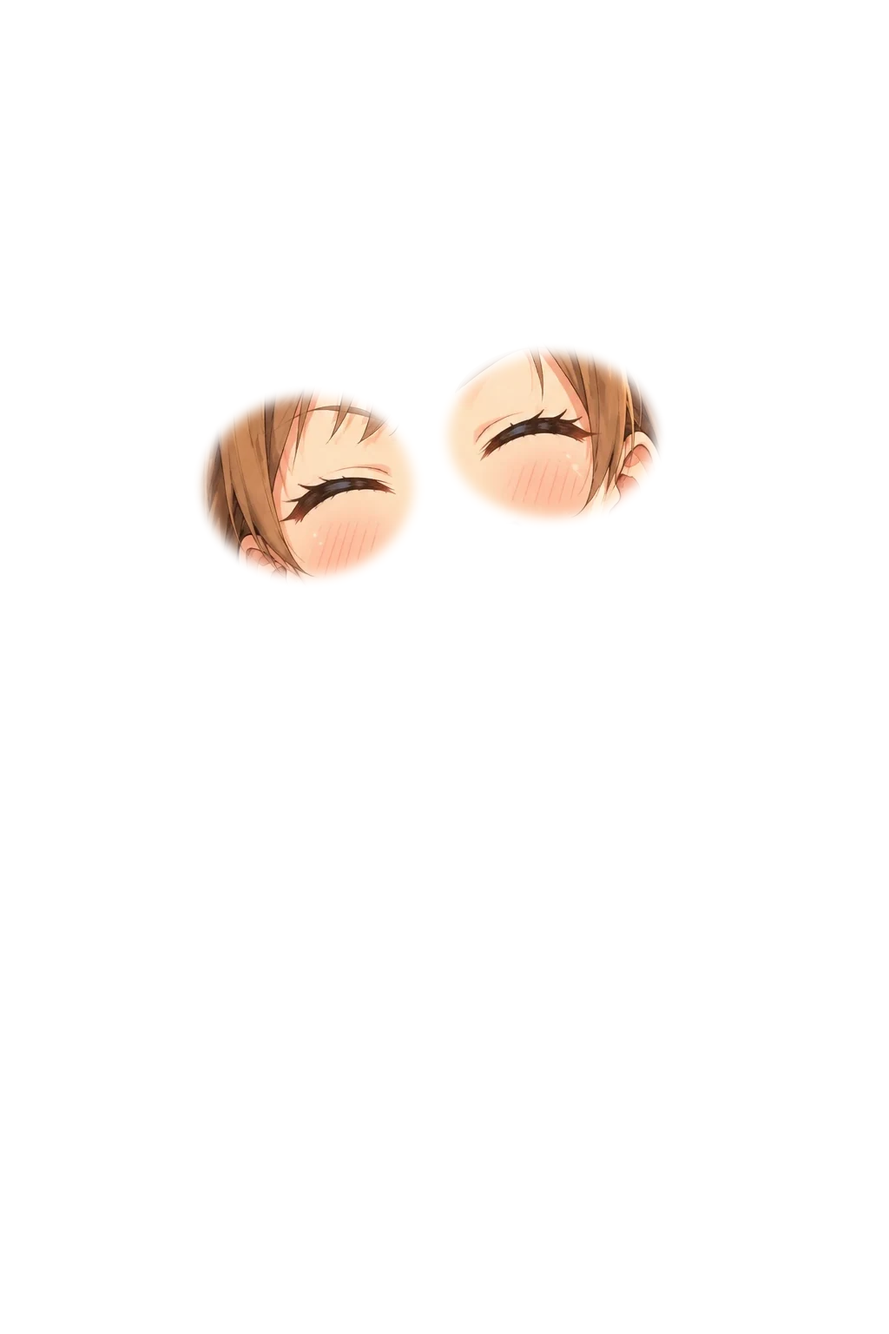
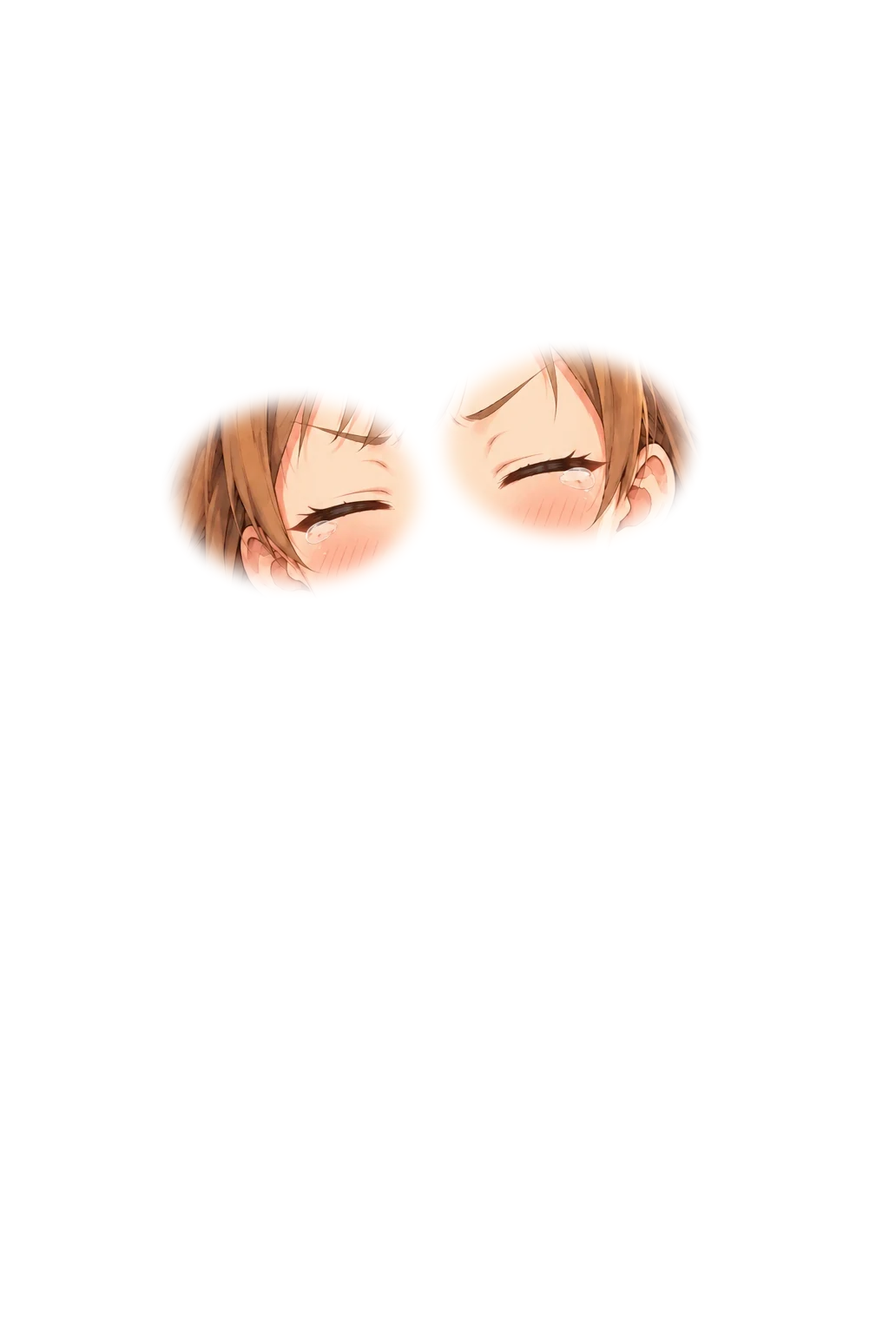
拠点のタイルの絵9枚と、みおの表情ごとの目を閉じた絵（まばたき）を入れる
- 開発者から届いたタイルの絵（docs/ART_QUEUE.md の L）。768×512 の WebP にし、台帳に tile.* で記入。拠点と休憩所のタイルが新しい絵になる
- 並びのタイルは、ネタバレを避けて人を描かない「重なった古い切符」（開発者が選んだ）。頼む文もそれに直した
- みおのまばたき：表情ごとの目を閉じた絵（M）から、その表情の目だけを切り抜いて重ねる。前の、別の表情の目をずらして重ねるやり方はやめた

Claude-Session: https://claude.ai/code/session_0138z9G7j5juWZyndYwWZQf5

Changed region(s): [[0.5, 0.25, 0.7812, 0.4062], [0.1875, 0.2812, 0.4375, 0.4688]]

diff --git a/src/data/assets.ts b/src/data/assets.ts
@@ -206,6 +206,26 @@ function rikuFace(face: string, title: string, expression: string): AssetEntry {
   };
 }
 
+/** 拠点・休憩所のタイルの絵（段階142。2026-10-31 に開発者が ChatGPT で作った） */
+function tileArt(id: string, title: string, prompt: string): AssetEntry {
+  return {
+    id: `tile.${id}`,
+    kind: 'image',
+    title: `拠点のタイル（${title}）`,
+    file: `assets/tiles/${id}.webp`,
+    status: 'placeholder',
+    source: { type: 'ai', service: 'ChatGPT', plan: 'Plus（有料）', prompt, settings: '見本の絵：public/assets/backgrounds/library.webp（蔵書の棚）。1536×1024 で出てきた。768×512 に縮めて WebP にした' },
+    author: 'RESTOPIA 開発（ChatGPT で作成）',
+    license: 'OpenAI 利用規約（出力の権利は利用者に渡す）',
+    commercialUse: true,
+    creditRequired: false,
+    modifyAllowed: true,
+    acquiredAt: '2026-10-31',
+    termsCopy: 'docs/licenses/ai-openai.md',
+    notes: 'docs/ART.md の 5-9（思い出のギャラリー）。src/data/hubTiles.ts',
+  };
+}
+
 /** 会話の背景（段階31a）。ChatGPT か Gemini で作った1枚絵 */
 function backdrop(id: string, title: string, file: string, prompt: string, settings: string, acquiredAt = '2026-10-08', service: 'chatgpt' | 'gemini' = 'chatgpt'): AssetEntry {
   const gemini = service === 'gemini';
@@ -1438,6 +1458,27 @@ export const ASSETS: AssetEntry[] = [
   ),
   // 2026-10-25〜26：ChatGPT Plus で作った、3章と2章の残りの人（docs/ART_QUEUE.md の A〜C。白い背景は scripts/cutout.py で抜いた）
   chatgptPortrait("sayoko", "小夜子", "smile", "微笑み", "Anime-style illustration for a Japanese story-driven RPG. Clean line art, soft cel shading with gentle watercolor-like lighting, warm dusk-toned palette (amber orange and indigo), nostalgic and emotional mood. No text, no watermark, no signature. Chest-up character portrait for visual-novel style dialogue scenes. Vertical 2:3 image. Front view, facing the viewer, a gentle, graceful smile. Framing: from just above the top of the head down to mid-chest. The head sits in the upper third of the image. Use exactly the same framing, size and camera distance as the attached reference portrait of the girl in the cardigan. Pose: both arms relaxed down at the sides, hands outside the frame. No props. Background: plain pure white, no shadow, no gradient. Character: Sayoko. Keep her design exactly as in the attached character sheet: long straight black hair half-up with a small silver crescent moon hairpin, blunt bangs, large dark eyes with a soft reddish-brown tint, a deep indigo yukata with white bellflowers and a crimson obi.", "sayoko_sheet.png（上で決めた設定画）、akari_smile.webp", "3章の大正の祭りの夜のヒロイン（docs/script/3-matsuri.md）。見た目は設定画（sayoko_sheet。開発者が持っている）で決めた。ほかの表情は、Gemini で作るまでこの絵で代わりに出す", '2026-10-26', 'Plus（有料）'),
+  // みおの表情ごとの目を閉じた絵（2026-10-31。docs/ART_QUEUE.md の M）。会話には出さず、目だけ切り抜いてまばたきの差分にする
+  { ...chatgptPortrait('mio', 'みお', 'smile_blink_src', '笑顔・目を閉じた絵。まばたきの元', "Edit the attached image. Keep everything exactly the same: the same character, the same wide confident grin expression, the same pose, framing, size, camera distance, hair, clothes, colors, line art and plain white background. Change only her eyes: gently close both eyes, as in the middle of a natural blink (soft curved eyelid lines with eyelashes, the same eyebrows as now). Do not move or resize the face, do not change the mouth.", 'mio_smile.webp', '会話には出さない（起動の時も読み込まない）。目のまわりだけを切り抜いて、まばたきの差分にする（scripts/portrait_parts.py）', '2026-10-31', 'Plus（有料）') },
+  { ...chatgptPortrait('mio', 'みお', 'serious_blink_src', '真剣・目を閉じた絵。まばたきの元', "Edit the attached image. Keep everything exactly the same: the same character, the same serious, determined expression, the same pose, framing, size, camera distance, hair, clothes, colors, line art and plain white background. Change only her eyes: gently close both eyes, as in the middle of a natural blink (soft curved eyelid lines with eyelashes, the same eyebrows as now). Do not move or resize the face, do not change the mouth.", 'mio_serious.webp', '会話には出さない（起動の時も読み込まない）。目のまわりだけを切り抜いて、まばたきの差分にする（scripts/portrait_parts.py）', '2026-10-31', 'Plus（有料）') },
+  { ...chatgptPortrait('mio', 'みお', 'surprised_blink_src', '驚き・目を閉じた絵。まばたきの元', "Edit the attached image. Keep everything exactly the same: the same character, the same surprised, mouth open expression, the same pose, framing, size, camera distance, hair, clothes, colors, line art and plain white background. Change only her eyes: gently close both eyes, as in the middle of a natural blink (soft curved eyelid lines with eyelashes, the same eyebrows as now). Do not move or resize the face, do not change the mouth.", 'mio_surprised.webp', '会話には出さない（起動の時も読み込まない）。目のまわりだけを切り抜いて、まばたきの差分にする（scripts/portrait_parts.py）', '2026-10-31', 'Plus（有料）') },
+  { ...chatgptPortrait('mio', 'みお', 'thinking_blink_src', '考える・目を閉じた絵。まばたきの元', "Edit the attached image. Keep everything exactly the same: the same character, the same thinking expression, the same pose, framing, size, camera distance, hair, clothes, colors, line art and plain white background. Change only her eyes: gently close both eyes, as in the middle of a natural blink (soft curved eyelid lines with eyelashes, the same eyebrows as now). Do not move or resize the face, do not change the mouth.", 'mio_thinking.webp', '会話には出さない（起動の時も読み込まない）。目のまわりだけを切り抜いて、まばたきの差分にする（scripts/portrait_parts.py）', '2026-10-31', 'Plus（有料）') },
+  { ...chatgptPortrait('mio', 'みお', 'worried_blink_src', '心配・目を閉じた絵。まばたきの元', "Edit the attached image. Keep everything exactly the same: the same character, the same worried expression, the same pose, framing, size, camera distance, hair, clothes, colors, line art and plain white background. Change only her eyes: gently close both eyes, as in the middle of a natural blink (soft curved eyelid lines with eyelashes, the same eyebrows as now). Do not move or resize the face, do not change the mouth.", 'mio_worried.webp', '会話には出さない（起動の時も読み込まない）。目のまわりだけを切り抜いて、まばたきの差分にする（scripts/portrait_parts.py）', '2026-10-31', 'Plus（有料）') },
+  { ...chatgptPortrait('mio', 'みお', 'pout_blink_src', 'むっ・目を閉じた絵。まばたきの元', "Edit the attached image. Keep everything exactly the same: the same character, the same pouting, cheeks puffed expression, the same pose, framing, size, camera distance, hair, clothes, colors, line art and plain white background. Change only her eyes: gently close both eyes, as in the middle of a natural blink (soft curved eyelid lines with eyelashes, the same eyebrows as now). Do not move or resize the face, do not change the mouth.", 'mio_pout.webp', '会話には出さない（起動の時も読み込まない）。目のまわりだけを切り抜いて、まばたきの差分にする（scripts/portrait_parts.py）', '2026-10-31', 'Plus（有料）') },
+  { ...chatgptPortrait('mio', 'みお', 'frustrated_blink_src', '悔しい・目を閉じた絵。まばたきの元', "Edit the attached image. Keep everything exactly the same: the same character, the same frustrated, biting her lip expression, the same pose, framing, size, camera distance, hair, clothes, colors, line art and plain white background. Change only her eyes: gently close both eyes, as in the middle of a natural blink (soft curved eyelid lines with eyelashes, the same eyebrows as now). Do not move or resize the face, do not change the mouth.", 'mio_frustrated.webp', '会話には出さない（起動の時も読み込まない）。目のまわりだけを切り抜いて、まばたきの差分にする（scripts/portrait_parts.py）', '2026-10-31', 'Plus（有料）') },
+  { ...chatgptPortrait('mio', 'みお', 'wry_blink_src', '困り笑い・目を閉じた絵。まばたきの元', "Edit the attached image. Keep everything exactly the same: the same character, the same awkward smile expression, the same pose, framing, size, camera distance, hair, clothes, colors, line art and plain white background. Change only her eyes: gently close both eyes, as in the middle of a natural blink (soft curved eyelid lines with eyelashes, the same eyebrows as now). Do not move or resize the face, do not change the mouth.", 'mio_wry.webp', '会話には出さない（起動の時も読み込まない）。目のまわりだけを切り抜いて、まばたきの差分にする（scripts/portrait_parts.py）', '2026-10-31', 'Plus（有料）') },
+  { ...chatgptPortrait('mio', 'みお', 'shy_blink_src', '照れ・目を閉じた絵。まばたきの元', "Edit the attached image. Keep everything exactly the same: the same character, the same shy, blushing expression, the same pose, framing, size, camera distance, hair, clothes, colors, line art and plain white background. Change only her eyes: gently close both eyes, as in the middle of a natural blink (soft curved eyelid lines with eyelashes, the same eyebrows as now). Do not move or resize the face, do not change the mouth.", 'mio_shy.webp', '会話には出さない（起動の時も読み込まない）。目のまわりだけを切り抜いて、まばたきの差分にする（scripts/portrait_parts.py）', '2026-10-31', 'Plus（有料）') },
+  { ...chatgptPortrait('mio', 'みお', 'teary_blink_src', '泣き笑い・目を閉じた絵。まばたきの元', "Edit the attached image. Keep everything exactly the same: the same character, the same smiling through tears expression, the same pose, framing, size, camera distance, hair, clothes, colors, line art and plain white background. Change only her eyes: gently close both eyes, as in the middle of a natural blink (soft curved eyelid lines with eyelashes, the same eyebrows as now). Do not move or resize the face, do not change the mouth.", 'mio_teary.webp', '会話には出さない（起動の時も読み込まない）。目のまわりだけを切り抜いて、まばたきの差分にする（scripts/portrait_parts.py）', '2026-10-31', 'Plus（有料）') },
+  // 拠点・休憩所のタイルの絵（2026-10-31。docs/ART_QUEUE.md の L。段階142）。1536×1024 を 768×512 に縮めた
+  tileArt("hunt", "記憶をたどる", "Anime-style illustration for a Japanese story-driven RPG. Clean line art, soft cel shading with gentle watercolor-like lighting, warm dusk-toned palette (amber orange and indigo), nostalgic and emotional mood. No text, no watermark, no signature.  A menu tile illustration for the hub screen of a mobile RPG, shown like a framed painting in a dark memory gallery. Horizontal 3:2 image (1536×1024). The main subject sits in the center of the image; the edges are simple, because the image will be cropped to a wide strip or to a square. Keep the bottom quarter darker and simple, because a white label will be placed over it. Rich, glowing light against deep shadows, so the tile stands out on a near-black screen. Restopia, a vast library of memories where stolen happy hours are kept as glowing hourglasses on endless shelves. Seen from behind, a high school boy and a girl in a cardigan (keep their designs as in the attached portraits) walk toward a tall archway of swirling golden sand; through the archway, a faint, dreamlike summer festival night with lanterns and fireworks is visible, as if they are stepping back into a memory. Absolutely no letters, numbers or text anywhere."),
+  tileArt("growth", "星図", "Anime-style illustration for a Japanese story-driven RPG. Clean line art, soft cel shading with gentle watercolor-like lighting, warm dusk-toned palette (amber orange and indigo), nostalgic and emotional mood. No text, no watermark, no signature.  A menu tile illustration for the hub screen of a mobile RPG, shown like a framed painting in a dark memory gallery. Horizontal 3:2 image (1536×1024). The main subject sits in the center of the image; the edges are simple, because the image will be cropped to a wide strip or to a square. Keep the bottom quarter darker and simple, because a white label will be placed over it. Rich, glowing light against deep shadows, so the tile stands out on a near-black screen. A deep indigo night sky full of stars above the library of memories. Several stars are linked by thin glowing golden lines into a constellation, and in the center stands a large antique hourglass whose falling sand glitters like stardust, slowly spilling up into the sky to become new stars. Absolutely no letters, numbers or text anywhere."),
+  tileArt("weapon", "武器", "Anime-style illustration for a Japanese story-driven RPG. Clean line art, soft cel shading with gentle watercolor-like lighting, warm dusk-toned palette (amber orange and indigo), nostalgic and emotional mood. No text, no watermark, no signature.  A menu tile illustration for the hub screen of a mobile RPG, shown like a framed painting in a dark memory gallery. Horizontal 3:2 image (1536×1024). The main subject sits in the center of the image; the edges are simple, because the image will be cropped to a wide strip or to a square. Keep the bottom quarter darker and simple, because a white label will be placed over it. Rich, glowing light against deep shadows, so the tile stands out on a near-black screen. A single slender sword rests on dark crimson velvet in the library of memories, its blade faintly glowing with a crimson light, as if remembering the boy who wields it. Behind it, faint silver octagonal emblems linked by thin crimson lines float in the dark like a family tree. Floating grains of golden sand. Absolutely no letters, numbers or text anywhere."),
+  tileArt("navi", "ムーブメント", "Anime-style illustration for a Japanese story-driven RPG. Clean line art, soft cel shading with gentle watercolor-like lighting, warm dusk-toned palette (amber orange and indigo), nostalgic and emotional mood. No text, no watermark, no signature.  A menu tile illustration for the hub screen of a mobile RPG, shown like a framed painting in a dark memory gallery. Horizontal 3:2 image (1536×1024). The main subject sits in the center of the image; the edges are simple, because the image will be cropped to a wide strip or to a square. Keep the bottom quarter darker and simple, because a white label will be placed over it. Rich, glowing light against deep shadows, so the tile stands out on a near-black screen. A close-up of the open back of an antique pocket watch: the beautiful clockwork movement with interlocking gears made of four metals (copper, blued steel, green bronze and yellow brass), tiny red ruby jewels, blued screws, and a golden balance wheel in motion. Warm light catching the metal edges, dark velvet around the watch. Absolutely no letters, numbers or text anywhere."),
+  tileArt("album", "アルバム", "Anime-style illustration for a Japanese story-driven RPG. Clean line art, soft cel shading with gentle watercolor-like lighting, warm dusk-toned palette (amber orange and indigo), nostalgic and emotional mood. No text, no watermark, no signature.  A menu tile illustration for the hub screen of a mobile RPG, shown like a framed painting in a dark memory gallery. Horizontal 3:2 image (1536×1024). The main subject sits in the center of the image; the edges are simple, because the image will be cropped to a wide strip or to a square. Keep the bottom quarter darker and simple, because a white label will be placed over it. Rich, glowing light against deep shadows, so the tile stands out on a near-black screen. An open old photo album on a dark wooden desk, lit by a warm desk lamp. Several slightly faded instant photos are taped onto cream-colored pages; the photos show only soft blurry colors of everyday moments (a festival night, a riverside sunset, a classroom), with no clear faces. A few loose photos and a roll of masking tape beside the album. Absolutely no letters, numbers or text anywhere."),
+  tileArt("party", "並び", "Anime-style illustration for a Japanese story-driven RPG. Clean line art, soft cel shading with gentle watercolor-like lighting, warm dusk-toned palette (amber orange and indigo), nostalgic and emotional mood. No text, no watermark, no signature.  A menu tile illustration for the hub screen of a mobile RPG, shown like a framed painting in a dark memory gallery. Horizontal 3:2 image (1536×1024). The main subject sits in the center of the image; the edges are simple, because the image will be cropped to a wide strip or to a square. Keep the bottom quarter darker and simple, because a white label will be placed over it. Rich, glowing light against deep shadows, so the tile stands out on a near-black screen. A narrow country path at night, wrapped in soft mist. Small old-fashioned oil lanterns are placed here and there along the path. Only a few lanterns in the foreground are lit with a warm golden glow; the rest stand unlit and fade away into the deep mist, so it is impossible to tell how many there are. A quiet feeling of choosing who will walk the road together tonight. No people, no hands, no silhouettes, no footprints. Absolutely no letters, numbers or text anywhere."),
+  tileArt("exchange", "交換所", "Anime-style illustration for a Japanese story-driven RPG. Clean line art, soft cel shading with gentle watercolor-like lighting, warm dusk-toned palette (amber orange and indigo), nostalgic and emotional mood. No text, no watermark, no signature.  A menu tile illustration for the hub screen of a mobile RPG, shown like a framed painting in a dark memory gallery. Horizontal 3:2 image (1536×1024). The main subject sits in the center of the image; the edges are simple, because the image will be cropped to a wide strip or to a square. Keep the bottom quarter darker and simple, because a white label will be placed over it. Rich, glowing light against deep shadows, so the tile stands out on a near-black screen. A neat exchange counter tucked between the bookshelves of the library of memories: a brass balance scale, glass jars of glowing sand and small crystal memory fragments, a thick ledger and a rubber stamp, arranged in perfect order. Behind the counter, the clerk in the attached portrait is seen small and from the side, adjusting her glasses while checking the ledger. Absolutely no letters, numbers or text anywhere."),
+  tileArt("lost", "落とし物の棚", "Anime-style illustration for a Japanese story-driven RPG. Clean line art, soft cel shading with gentle watercolor-like lighting, warm dusk-toned palette (amber orange and indigo), nostalgic and emotional mood. No text, no watermark, no signature.  A menu tile illustration for the hub screen of a mobile RPG, shown like a framed painting in a dark memory gallery. Horizontal 3:2 image (1536×1024). The main subject sits in the center of the image; the edges are simple, because the image will be cropped to a wide strip or to a square. Keep the bottom quarter darker and simple, because a white label will be placed over it. Rich, glowing light against deep shadows, so the tile stands out on a near-black screen. A small wooden shelf of lost things in a quiet corner of the library of memories, each item with a little paper tag tied by string (the tags are blank): a child's straw hat, a red umbrella, a wind-up tin toy, a music box, a single glove, an old cassette tape. A soft golden glow on each item, as if waiting for its owner. Absolutely no letters, numbers or text anywhere."),
+  tileArt("talks", "町の小話", "Anime-style illustration for a Japanese story-driven RPG. Clean line art, soft cel shading with gentle watercolor-like lighting, warm dusk-toned palette (amber orange and indigo), nostalgic and emotional mood. No text, no watermark, no signature.  A menu tile illustration for the hub screen of a mobile RPG, shown like a framed painting in a dark memory gallery. Horizontal 3:2 image (1536×1024). The main subject sits in the center of the image; the edges are simple, because the image will be cropped to a wide strip or to a square. Keep the bottom quarter darker and simple, because a white label will be placed over it. Rich, glowing light against deep shadows, so the tile stands out on a near-black screen. A small Japanese shopping street at dusk seen from a little distance: paper lanterns and shop lights coming on, a few townspeople chatting in front of a bakery and a candy shop, a cat on a bench, warm windows. A peaceful, everyday evening; people are small and seen from the side or behind. Absolutely no letters, numbers or text anywhere."),
   // 表情違い（2026-10-31。docs/ART_QUEUE.md の I・K。開発者が ChatGPT で作って送ってくれた。感情移入を優先して、台本で多く使う表情から）
   chatgptPortrait("mio", "\u307f\u304a", "serious", "\u771f\u5263", "Anime-style illustration for a Japanese story-driven RPG. Clean line art, soft cel shading with gentle watercolor-like lighting, warm dusk-toned palette (amber orange and indigo), nostalgic and emotional mood. No text, no watermark, no signature.  Chest-up character portrait for visual-novel style dialogue scenes. Vertical 2:3 image. Front view, facing the viewer, a serious, determined look, eyebrows drawn together, mouth set firmly. This is exactly the same character as the attached portrait, with the same childlike proportions: Mio, a petite, energetic 10-year-old girl with bright light-brown messy short hair, one tiny side tuft tied with a small orange hair tie, big warm brown eyes, a plain yellow T-shirt. Change only the facial expression (a small natural tilt of the head or shoulders is fine). Keep exactly the same character design, hairstyle, outfit, colors, art style, framing, size and camera distance as the attached portrait. Pose: both arms relaxed down at the sides, hands outside the frame. No props. Background: plain pure white, no shadow, no gradient.", "mio_smile.webp", "表情違い（docs/ART_QUEUE.md の I）", '2026-10-31', 'Plus（有料）'),
   chatgptPortrait("mio", "\u307f\u304a", "surprised", "\u9a5a\u304d", "Anime-style illustration for a Japanese story-driven RPG. Clean line art, soft cel shading with gentle watercolor-like lighting, warm dusk-toned palette (amber orange and indigo), nostalgic and emotional mood. No text, no watermark, no signature.  Chest-up character portrait for visual-novel style dialogue scenes. Vertical 2:3 image. Front view, facing the viewer, a surprised look, eyes wide open, mouth open in a small \"oh\". This is exactly the same character as the attached portrait, with the same childlike proportions: Mio, a petite, energetic 10-year-old girl with bright light-brown messy short hair, one tiny side tuft tied with a small orange hair tie, big warm brown eyes, a plain yellow T-shirt. Change only the facial expression (a small natural tilt of the head or shoulders is fine). Keep exactly the same character design, hairstyle, outfit, colors, art style, framing, size and camera distance as the attached portrait. Pose: both arms relaxed down at the sides, hands outside the frame. No props. Background: plain pure white, no shadow, no gradient.", "mio_smile.webp", "表情違い（docs/ART_QUEUE.md の I）", '2026-10-31', 'Plus（有料）'),
@@ -2378,7 +2419,6 @@ const PORTRAIT_PART_FILES: [file: string, from: string, title: string][] = [
   // みお・小夜子（2026-10-31）：表情ごとに顔が少しずれているので、重ねる表情ごとに位置を合わせた差分（scripts/portrait_parts.py の SHIFTED）
   ...(
     [
-      ['mio', 'みお', 'blink', 'laugh', ['smile', 'serious', 'surprised', 'thinking', 'worried', 'pout', 'frustrated', 'wry', 'shy', 'teary']],
       ['mio', 'みお', 'talk', 'surprised', ['serious', 'thinking', 'shy']],
       ['sayoko', '小夜子', 'blink', 'laugh', ['smile', 'thinking', 'surprised', 'serious', 'normal', 'shy', 'lonely', 'teary']],
       ['sayoko', '小夜子', 'talk', 'surprised', ['smile', 'thinking', 'serious', 'normal', 'shy', 'lonely', 'teary']],
@@ -2389,6 +2429,10 @@ const PORTRAIT_PART_FILES: [file: string, from: string, title: string][] = [
       `portrait.${who}.${from}`,
       `${name}の${kind === 'blink' ? '閉じた目（まばたき）' : '開いた口（口パク）'}（${f} に重ねる）`,
     ]),
+  ),
+  // みおの閉じた目（2026-10-31）：表情ごとの目を閉じた絵から切り抜いた
+  ...(['smile', 'serious', 'surprised', 'thinking', 'worried', 'pout', 'frustrated', 'wry', 'shy', 'teary'] as const).map(
+    (f): [string, string, string] => [`mio_blink_${f}`, `portrait.mio.${f}_blink_src`, `みおの閉じた目（まばたき。${f} に重ねる）`],
   ),
 ];
 for (const [file, from, title] of PORTRAIT_PART_FILES) {

diff --git a/src/data/dialogue.ts b/src/data/dialogue.ts
@@ -93,6 +93,7 @@ export interface PortraitPart {
   byFace?: Record<string, string>;
 }
 const RIKU_TALK_FACES = ['normal', 'proud', 'serious', 'sad', 'smirk', 'flustered'];
+const MIO_BLINK_FACES = ['smile', 'serious', 'surprised', 'thinking', 'worried', 'pout', 'frustrated', 'wry', 'shy', 'teary'];
 /** 表情ごとに位置を合わせた差分（<人>_blink_<表情>・<人>_talk_<表情>）を使う人のまばたき・口パク */
 function shiftedParts(who: string, blink: string[], talk: string[]): { blink: PortraitPart; talk: PortraitPart } {
   const part = (kind: string, faces: string[]): PortraitPart => ({
@@ -104,9 +105,11 @@ function shiftedParts(who: string, blink: string[], talk: string[]): { blink: Po
 }
 export const PORTRAIT_PARTS: Record<string, { blink?: PortraitPart; talk?: PortraitPart }> = {
   // みお・小夜子（2026-10-31）：「大笑い」「笑顔」の閉じた目と「驚き」の開いた口を、表情ごとに位置を合わせて重ねる
-  // みおのまばたきは止めた（2026-10-31 開発者の指摘：表情ごとに顔の傾きと大きさが違い、別の表情の閉じた目を重ねると顔がゆがんで見えた）。
-  // 表情ごとに「目だけ閉じた絵」を頼んだ（docs/ART_QUEUE.md の M）。届くまで口パクだけ
-  みお: { talk: shiftedParts('mio', ['smile'], ['serious', 'thinking', 'shy']).talk },
+  // みお：表情ごとに「目だけ閉じた絵」から作ったまばたき（2026-10-31。別の表情の閉じた目を重ねると顔がゆがんだため）と、「驚き」の開いた口
+  みお: {
+    blink: { image: 'portrait.part.mio_blink_smile', faces: MIO_BLINK_FACES, byFace: Object.fromEntries(MIO_BLINK_FACES.map((f) => [f, `portrait.part.mio_blink_${f}`])) },
+    talk: shiftedParts('mio', ['smile'], ['serious', 'thinking', 'shy']).talk,
+  },
   小夜子: shiftedParts('sayoko', ['smile', 'thinking', 'surprised', 'serious', 'normal', 'shy', 'lonely', 'teary'], ['smile', 'thinking', 'serious', 'normal', 'shy', 'lonely', 'teary']),
   あかり: {
     blink: { image: 'portrait.part.akari_blink', faces: ['gentle', 'dejavu', 'pout', 'sad', 'serious', 'shy', 'surprised', 'worried', 'wry', 'thinking'] },

diff --git a/scripts/art_queue.py b/scripts/art_queue.py
@@ -59,7 +59,7 @@ Follow the attached layout sketch exactly: light areas are walkable ground, dark
 ITEMS = []  # (章の見出し, [(番号, 名前, 添付, 保存名, 指示文, メモ)])
 
 # 届いてゲームに入れた絵（保存名）。一覧では見出しに「済」を付ける
-DONE = {'sayoko_sheet.png', 'sayoko_smile.png', 'chiyo_smile.png', 'noboru_smile.png', 'past_chiyo_smile.png', 'past_kiku_normal.png', 'past_noboru_smile.png', 'shiori_smile.png', 'toya_smile.png', 'past_shiori_smile.png', 'past_toya_smile.png', 'past_koji_normal.png', 'past_masaru_smile.png', 'masaru_smile.png', 'sumi_smile.png', 'past_sumi_smile.png', 'daichi_smile.png', 'saki_smile.png', 'gear_noise.png', 'screw_noise.png', 'tube_noise.png', 'abacus_noise.png', 'lathe_boss.png', 'flip_phone_noise.png', 'sticker_noise.png', 'boombox_noise.png', 'metronome_noise.png', 'amp_boss.png', 'ball_noise.png', 'pet_noise.png', 'megaphone_noise.png', 'jug_noise.png', 'scoreboard_boss.png', 'fan_noise.png', 'coil_noise.png', 'radio_noise.png', 'table_noise.png', 'postbox_noise.png', 'train_boss.png', 'lantern_noise.png', 'pinwheel_noise.png', 'candy_noise.png', 'phonograph_noise.png', 'yagura_boss.png', 'earphone_noise.png', 'selfie_noise.png', 'tapioca_noise.png', 'diploma_noise.png', 'yosegaki_noise.png', 'crossing_boss.png', 'map_fest_woods.png', 'map_fest_backyard.png', 'map_fest_east.png', 'map_fest_west.png', 'map_fest_gate.png', 'map_showa_alley.png', 'map_showa_lane.png', 'map_showa_hill.png', 'map_school_courtyard.png', 'map_school_bikes.png', 'map_school_classroom.png', 'map_school_corridor.png', 'map_school_gym.png', 'map_riverside_levee.png', 'map_riverside_bank.png', 'map_riverside_bench.png', 'map_riverside_diamond.png', 'map_riverside_shed.png', 'map_riverside_stand.png', 'map_archive_corridor.png', 'map_archive_reading.png', 'map_archive_vault.png', 'map_archive_stacks.png', 'map_village_station.png', 'map_village_paddy.png', 'map_village_shrine.png', 'map_village_house.png', 'map_village_river.png', 'map_village_platform.png', 'map_grad_slope.png', 'map_grad_gym_back.png', 'map_grad_street.png', 'map_grad_levee.png', 'map_grad_crossing.png', 'map_matsuri_torii.png', 'map_matsuri_stalls.png', 'map_matsuri_yagura.png', 'map_matsuri_edge.png', 'bg_home_tv_dark.png', 'bg_school_festival.png', 'bg_village_1966.png', 'bg_village_dusk.png', 'bg_care_home.png', 'bg_care_home_rain.png', 'bg_station_now.png', 'bg_school_fair.png', 'bg_taisho_festival.png', 'bg_taisho_edge.png', 'bg_shrine_now.png', 'bg_grad_2019.png', 'bg_grad_dusk.png', 'bg_crossing_now.png', 'cg_pinch_hit.png', 'snap_sword.png', 'snap_heavyBlow.png', 'snap_iceChip.png', 'snap_thunderChip.png', 'snap_wideShot.png', 'snap_recover.png', 'snap_quickStep.png', 'snap_search.png', 'snap_breakArm.png', 'snap_draw.png', 'snap_joker.png', 'snap_encore.png', 'snap_pinchHitter.png', 'snap_fireChip.png', 'mio_serious.png', 'mio_surprised.png', 'mio_thinking.png', 'mio_worried.png', 'mio_laugh.png', 'mio_pout.png', 'mio_frustrated.png', 'mio_wry.png', 'mio_shy.png', 'mio_teary.png', 'sayoko_thinking.png', 'sayoko_surprised.png', 'sayoko_serious.png', 'sayoko_laugh.png', 'sayoko_normal.png', 'sayoko_shy.png', 'sayoko_lonely.png', 'sayoko_teary.png', 'akari_tearful.png', 'hero_thinking.png'}
+DONE = {'sayoko_sheet.png', 'sayoko_smile.png', 'chiyo_smile.png', 'noboru_smile.png', 'past_chiyo_smile.png', 'past_kiku_normal.png', 'past_noboru_smile.png', 'shiori_smile.png', 'toya_smile.png', 'past_shiori_smile.png', 'past_toya_smile.png', 'past_koji_normal.png', 'past_masaru_smile.png', 'masaru_smile.png', 'sumi_smile.png', 'past_sumi_smile.png', 'daichi_smile.png', 'saki_smile.png', 'gear_noise.png', 'screw_noise.png', 'tube_noise.png', 'abacus_noise.png', 'lathe_boss.png', 'flip_phone_noise.png', 'sticker_noise.png', 'boombox_noise.png', 'metronome_noise.png', 'amp_boss.png', 'ball_noise.png', 'pet_noise.png', 'megaphone_noise.png', 'jug_noise.png', 'scoreboard_boss.png', 'fan_noise.png', 'coil_noise.png', 'radio_noise.png', 'table_noise.png', 'postbox_noise.png', 'train_boss.png', 'lantern_noise.png', 'pinwheel_noise.png', 'candy_noise.png', 'phonograph_noise.png', 'yagura_boss.png', 'earphone_noise.png', 'selfie_noise.png', 'tapioca_noise.png', 'diploma_noise.png', 'yosegaki_noise.png', 'crossing_boss.png', 'map_fest_woods.png', 'map_fest_backyard.png', 'map_fest_east.png', 'map_fest_west.png', 'map_fest_gate.png', 'map_showa_alley.png', 'map_showa_lane.png', 'map_showa_hill.png', 'map_school_courtyard.png', 'map_school_bikes.png', 'map_school_classroom.png', 'map_school_corridor.png', 'map_school_gym.png', 'map_riverside_levee.png', 'map_riverside_bank.png', 'map_riverside_bench.png', 'map_riverside_diamond.png', 'map_riverside_shed.png', 'map_riverside_stand.png', 'map_archive_corridor.png', 'map_archive_reading.png', 'map_archive_vault.png', 'map_archive_stacks.png', 'map_village_station.png', 'map_village_paddy.png', 'map_village_shrine.png', 'map_village_house.png', 'map_village_river.png', 'map_village_platform.png', 'map_grad_slope.png', 'map_grad_gym_back.png', 'map_grad_street.png', 'map_grad_levee.png', 'map_grad_crossing.png', 'map_matsuri_torii.png', 'map_matsuri_stalls.png', 'map_matsuri_yagura.png', 'map_matsuri_edge.png', 'bg_home_tv_dark.png', 'bg_school_festival.png', 'bg_village_1966.png', 'bg_village_dusk.png', 'bg_care_home.png', 'bg_care_home_rain.png', 'bg_station_now.png', 'bg_school_fair.png', 'bg_taisho_festival.png', 'bg_taisho_edge.png', 'bg_shrine_now.png', 'bg_grad_2019.png', 'bg_grad_dusk.png', 'bg_crossing_now.png', 'cg_pinch_hit.png', 'snap_sword.png', 'snap_heavyBlow.png', 'snap_iceChip.png', 'snap_thunderChip.png', 'snap_wideShot.png', 'snap_recover.png', 'snap_quickStep.png', 'snap_search.png', 'snap_breakArm.png', 'snap_draw.png', 'snap_joker.png', 'snap_encore.png', 'snap_pinchHitter.png', 'snap_fireChip.png', 'mio_serious.png', 'mio_surprised.png', 'mio_thinking.png', 'mio_worried.png', 'mio_laugh.png', 'mio_pout.png', 'mio_frustrated.png', 'mio_wry.png', 'mio_shy.png', 'mio_teary.png', 'sayoko_thinking.png', 'sayoko_surprised.png', 'sayoko_serious.png', 'sayoko_laugh.png', 'sayoko_normal.png', 'sayoko_shy.png', 'sayoko_lonely.png', 'sayoko_teary.png', 'akari_tearful.png', 'hero_thinking.png', 'tile_hunt.png', 'tile_growth.png', 'tile_weapon.png', 'tile_navi.png', 'tile_album.png', 'tile_party.png', 'tile_exchange.png', 'tile_lost.png', 'tile_talks.png', 'mio_blink_src_smile.png', 'mio_blink_src_serious.png', 'mio_blink_src_surprised.png', 'mio_blink_src_thinking.png', 'mio_blink_src_worried.png', 'mio_blink_src_pout.png', 'mio_blink_src_frustrated.png', 'mio_blink_src_wry.png', 'mio_blink_src_shy.png', 'mio_blink_src_teary.png'}
 
 
 def section(title, note=''):
@@ -394,8 +394,8 @@ add('タイル：ムーブメント', [LIB], 'tile_navi.png', tile(
 add('タイル：アルバム', [LIB], 'tile_album.png', tile(
     'An open old photo album on a dark wooden desk, lit by a warm desk lamp. Several slightly faded instant photos are taped onto cream-colored pages; the photos show only soft blurry colors of everyday moments (a festival night, a riverside sunset, a classroom), with no clear faces. A few loose photos and a roll of masking tape beside the album.'))
 add('タイル：並び', [LIB], 'tile_party.png', tile(
-    'A narrow country path at night, wrapped in soft mist. Small old-fashioned oil lanterns are placed here and there along the path. Only a few lanterns in the foreground are lit with a warm golden glow; the rest stand unlit and fade away into the deep mist, so it is impossible to tell how many there are. A quiet feeling of choosing who will walk the road together tonight. No people, no hands, no silhouettes, no footprints.'),
-    'ネタバレを避けるため、人・手・服を描かない（2026-10-31 開発者の指摘：手の数や服装で仲間の人数や顔ぶれが分かる。案オ）')
+    'A close-up of many old-fashioned thick cardboard train tickets on a dark wooden desk, spread out in a loose fan and overlapping so much that it is impossible to count them. A few of the tickets glow with a soft warm golden light, as if they have just been chosen; the others are faded and dim. Drifting grains of golden sand in the lamplight. No people, no hands.').replace('Absolutely no letters, numbers or text anywhere.', 'Absolutely no letters, numbers or text anywhere: the tickets are blank, with only simple border patterns.'),
+    'ネタバレを避けるため、人・手・服を描かない（2026-10-31 開発者の指摘：手の数や服装で仲間の人数や顔ぶれが分かる。いくつかの案から、開発者が「重なった古い切符」を選んだ）')
 add('タイル：交換所', [LIB, P + 'petra_normal.webp'], 'tile_exchange.png', tile(
     'A neat exchange counter tucked between the bookshelves of the library of memories: a brass balance scale, glass jars of glowing sand and small crystal memory fragments, a thick ledger and a rubber stamp, arranged in perfect order. Behind the counter, the clerk in the attached portrait is seen small and from the side, adjusting her glasses while checking the ledger.'))
 add('タイル：落とし物の棚', [LIB], 'tile_lost.png', tile(

diff --git a/scripts/portrait_parts.py b/scripts/portrait_parts.py
@@ -62,6 +62,18 @@ PARTS = {
     "kenta_blink": ("kenta_blink_src", [(268, 210, 387, 336), (407, 186, 537, 295)], 5, 1.0),
     "kenta_talk": ("kenta_talk_src", (340, 336, 512, 474), 6, 1.0),
     "kai_blink": ("kai_blink_src", [(274, 282, 401, 362), (373, 234, 550, 330)], 5, 1.0),
+    # みおの閉じた目（2026-10-31）：表情ごとに、その表情の絵から目だけ閉じた絵（mio_<表情>_blink_src。開発者が ChatGPT で作った）。
+    # 別の表情の閉じた目を重ねると顔がゆがんだので、表情ごとに作った。楕円は左右の目ごと
+    "mio_blink_smile": ("mio_smile_blink_src", [(218, 467, 488, 667), (515, 425, 785, 625)], 10, 1.0),
+    "mio_blink_serious": ("mio_serious_blink_src", [(223, 467, 493, 667), (517, 427, 787, 627)], 10, 1.0),
+    "mio_blink_surprised": ("mio_surprised_blink_src", [(218, 463, 488, 663), (514, 416, 784, 616)], 10, 1.0),
+    "mio_blink_thinking": ("mio_thinking_blink_src", [(221, 463, 491, 663), (525, 406, 795, 606)], 10, 1.0),
+    "mio_blink_worried": ("mio_worried_blink_src", [(225, 459, 495, 659), (512, 412, 782, 612)], 10, 1.0),
+    "mio_blink_pout": ("mio_pout_blink_src", [(213, 461, 483, 661), (521, 415, 791, 615)], 10, 1.0),
+    "mio_blink_frustrated": ("mio_frustrated_blink_src", [(208, 467, 478, 667), (517, 414, 787, 614)], 10, 1.0),
+    "mio_blink_wry": ("mio_wry_blink_src", [(217, 496, 487, 696), (513, 439, 783, 639)], 10, 1.0),
+    "mio_blink_shy": ("mio_shy_blink_src", [(208, 475, 478, 675), (549, 446, 819, 646)], 10, 1.0),
+    "mio_blink_teary": ("mio_teary_blink_src", [(210, 485, 480, 685), (521, 430, 791, 630)], 10, 1.0),
 }
 
 # 基本の1枚（ChatGPT。1024×1536）に重ねる分：Gemini の絵（843×1264）から作った差分を、基本の1枚の大きさに広げたものも作る（<名前>_l）。
@@ -108,8 +120,6 @@ def make(name: str, src: str, box: tuple[int, int, int, int] | list[tuple[int, i
 # ずれは、目より上の前髪と耳のあたり（ALIGN_BOX）を、元の表情と重ねる表情で比べて、いちばん似る位置で測る
 # 出す絵の名前 → (元にする表情の絵, 切り抜く楕円（いくつか重ねる時は並べる）, ぼかし, 重ねる表情)
 SHIFTED = {
-    # みおの閉じた目：「大笑い」の目（顔が少し傾いているので、目ごとに楕円を分けた）
-    "mio_blink": ("mio_laugh", [(236, 466, 482, 678), (528, 428, 772, 622)], 8, ["smile", "serious", "surprised", "thinking", "worried", "pout", "frustrated", "wry", "shy", "teary"]),
     # みおの開いた口：「驚き」の小さく開いた口。口を閉じている表情だけ
     "mio_talk": ("mio_surprised", (474, 650, 584, 748), 7, ["serious", "thinking", "shy"]),
     # 小夜子の閉じた目：「笑顔」の目
@@ -118,44 +128,6 @@ SHIFTED = {
     "sayoko_talk": ("sayoko_surprised", (484, 488, 572, 540), 6, ["smile", "thinking", "serious", "normal", "shy", "lonely", "teary"]),
 }
 ALIGN_BOX = (260, 300, 780, 470)
-# 目ごとに、目そのものの位置で合わせる差分（2026-10-31。みおは前髪の形が表情ごとに違い、前髪で合わせると目が20〜30ドットずれた）。
-# 楕円のまわりの暗い所（まつ毛・瞳）の真ん中を、元の表情（閉じた目）と重ねる表情（開いた目）で比べる。
-# 開いた目は上のまつ毛が濃いので、暗い所の真ん中が目の真ん中より上に出る。閉じた目の線を少し下に置く（EYE_BIAS）
-BY_EYE = {"mio_blink"}
-EYE_DARK = 60
-EYE_BIAS = 6
-
-
-def eye_center(name: str, box: tuple[int, int, int, int]) -> tuple[float, float] | None:
-    import numpy as np
-
-    a = gray(name)
-    x0, y0, x1, y1 = box[0] - 20, box[1] - 30, box[2] + 20, box[3] + 30
-    ys, xs = np.nonzero(a[y0:y1, x0:x1] < EYE_DARK)
-    return (float(xs.mean()) + x0, float(ys.mean()) + y0) if len(xs) else None
-
-
-def gray(name: str):
-    import numpy as np
-
-    im = Image.open(SRC / f"{name}.webp").convert("RGBA")
-    bg = Image.new("RGBA", im.size, (255, 255, 255, 255))
-    bg.alpha_composite(im)
-    return np.asarray(bg.convert("L"), dtype=float)
-
-
-def offset(src: str, face: str, box: tuple[int, int, int, int] = ALIGN_BOX) -> tuple[int, int]:
-    """face の顔が src の顔からどれだけずれているか（右・下が正）。粗く探してから、まわりを1ドットずつ"""
-    a, b = gray(src), gray(face)
-    x0, y0, x1, y1 = box
-    base = a[y0:y1, x0:x1]
-
-    def diff(dx: int, dy: int) -> float:
-        return float(abs(base - b[y0 + dy : y1 + dy, x0 + dx : x1 + dx]).mean())
-
-    best = min(((dx, dy) for dx in range(-30, 31, 3) for dy in range(-30, 31, 3)), key=lambda d: diff(*d))
-    return min(((best[0] + dx, best[1] + dy) for dx in range(-3, 4) for dy in range(-3, 4)), key=lambda d: diff(*d))
-
 
 def make_shifted(name: str, src: str, box, feather: int, faces: list[str]) -> None:
     boxes = box if isinstance(box, list) else [box]
@@ -170,26 +142,9 @@ def make_shifted(name: str, src: str, box, feather: int, faces: list[str]) -> No
     for face in faces:
         target = f"{name.split('_')[0]}_{face}"
         out = Image.new("RGBA", im.size, (0, 0, 0, 0))
-        if name in BY_EYE:
-            # 目ごとに切り抜いて、それぞれの目の位置へ
-            shifts = []
-            for b in boxes:
-                eye = Image.new("L", im.size, 0)
-                ImageDraw.Draw(eye).ellipse(b, fill=255)
-                eye = ImageChops.multiply(mask, eye.filter(ImageFilter.GaussianBlur(feather)))
-                piece = im.copy()
-                piece.putalpha(ImageChops.multiply(im.getchannel("A"), eye))
-                a, t = eye_center(src, b), eye_center(target, b)
-                dx, dy = (round(t[0] - a[0]), round(t[1] - a[1]) + EYE_BIAS) if a and t else (0, 0)
-                layer = Image.new("RGBA", im.size, (0, 0, 0, 0))
-                layer.paste(piece, (dx, dy))
-                out.alpha_composite(layer)
-                shifts.append(f"{dx}, {dy}")
-            print(f"{name}_{face}.webp ← {src}（目ごとのずれ {' / '.join(shifts)}）")
-        else:
-            dx, dy = offset(src, target)
-            out.paste(part, (dx, dy))
-            print(f"{name}_{face}.webp ← {src}（ずれ {dx}, {dy}）")
+        dx, dy = offset(src, target)
+        out.paste(part, (dx, dy))
+        print(f"{name}_{face}.webp ← {src}（ずれ {dx}, {dy}）")
         out.save(OUT / f"{name}_{face}.webp", quality=88, method=6)
 
 

diff --git a/docs/HANDOFF.md b/docs/HANDOFF.md
@@ -28,7 +28,7 @@
 
 ## 次にやること
 
-- **2026-10-30、画面の見た目を開発者が見本で決めた**（`docs/ART.md` の 5-9、見本は `docs/sketches/ui/`）：拠点＝思い出のギャラリー、並び＝思い出のアルバム、星図＝星空と砂時計、武器＝紅の系譜、ムーブメント＝時計の機械（色＝金属）。作るのは段階141〜146（`docs/milestones/M3.md`）。**開発者が141（5つの画面をそろえる枠）を先にすると決め、141 を作った**（共通の部品 `src/ui/frame.ts`、そろえ方の決まりは ART.md 5-9。同時に「吸わせる／吸わせ枠」を「刻む／刻印」に言いかえた。確認待ち）。続けて 142〜146（拠点＝ギャラリー、並び＝アルバム、星図、武器＝紅の系譜（ツリーの画面はなくし、素材はまとめて刻む）、ムーブメント＝時計の機械（色の名前を銅・鋼・青銅・真鍮に））も作った（確認待ち）。**拠点のタイルの絵9枚は開発者が新調する**（`docs/ART_QUEUE.md` の L。届いたら台帳に `tile.hunt` などの id で入れると、代わりの絵から自動で替わる。`src/data/hubTiles.ts`）。2026-10-31 に段階147（育成の入口をメニューにまとめ、探索の休憩所 `CampScene` を作った）。次は 140b（4-2 の昼の選べる話）
+- **2026-10-30、画面の見た目を開発者が見本で決めた**（`docs/ART.md` の 5-9、見本は `docs/sketches/ui/`）：拠点＝思い出のギャラリー、並び＝思い出のアルバム、星図＝星空と砂時計、武器＝紅の系譜、ムーブメント＝時計の機械（色＝金属）。作るのは段階141〜146（`docs/milestones/M3.md`）。**開発者が141（5つの画面をそろえる枠）を先にすると決め、141 を作った**（共通の部品 `src/ui/frame.ts`、そろえ方の決まりは ART.md 5-9。同時に「吸わせる／吸わせ枠」を「刻む／刻印」に言いかえた。確認待ち）。続けて 142〜146（拠点＝ギャラリー、並び＝アルバム、星図、武器＝紅の系譜（ツリーの画面はなくし、素材はまとめて刻む）、ムーブメント＝時計の機械（色の名前を銅・鋼・青銅・真鍮に））も作った（確認待ち）。拠点のタイルの絵9枚は 2026-10-31 に開発者から届き、入れた（`public/assets/tiles/`。並びはネタバレを避けて「重なった古い切符」）。2026-10-31 に段階147（育成の入口をメニューにまとめ、探索の休憩所 `CampScene` を作った）。次は 140b（4-2 の昼の選べる話）
 - **段階140a（2026-10-30）で、38日目と 4-2「早瀬の時間」を遊べる形にし、早瀬が5人目の仲間に加わった。開発者の確認待ち**。早瀬は属性魔法の職人（はじめの部位壊しは小夜子と重なるので決め直した）。星図はケフェウス座。区画 `a42`、敵は `openingEnemies.ts`。小夜子が加わった後（4人目から）に星図が開けなかった不具合も直した。次は 140b（昼の選べる話）
 - **段階139（2026-10-30）で、38日目「早瀬にばれる」と 4-2「早瀬の時間」の脚本を書いた（`docs/script/4-2.md`）。開発者が全部このままでよいと決めた**。次は遊べる形にする段階（作り方の案を先に見せる）。昭和55年の春、開店の日。妻はしずえ（4年前に亡くなった）。一番目の客は 1-2 のきよしさん
 - **段階137b（2026-10-30）で、4-1 の昼の選べる話（あかり10・小夜子4・みお8・小話2つ）を入れた。開発者の確認待ち**。絆の印が必ず見る印に重なる時は下へずらす決まりを足した（`docs/design/daily.md`）。4-1 はこれで脚本の全部が入った。次は 38日目（早瀬にばれる）と 4-2 の脚本
